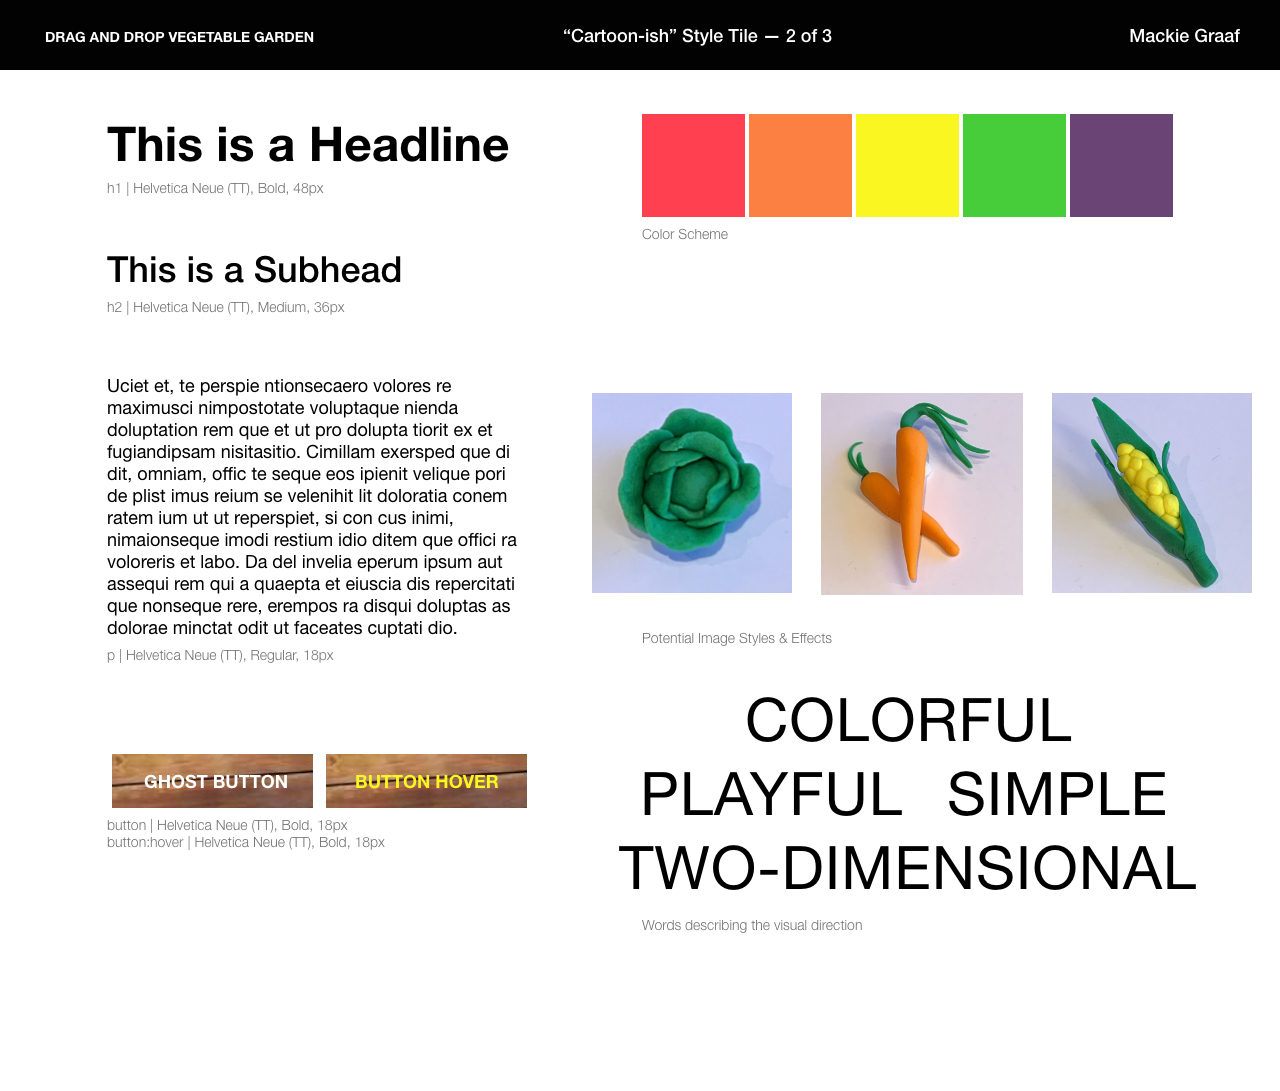
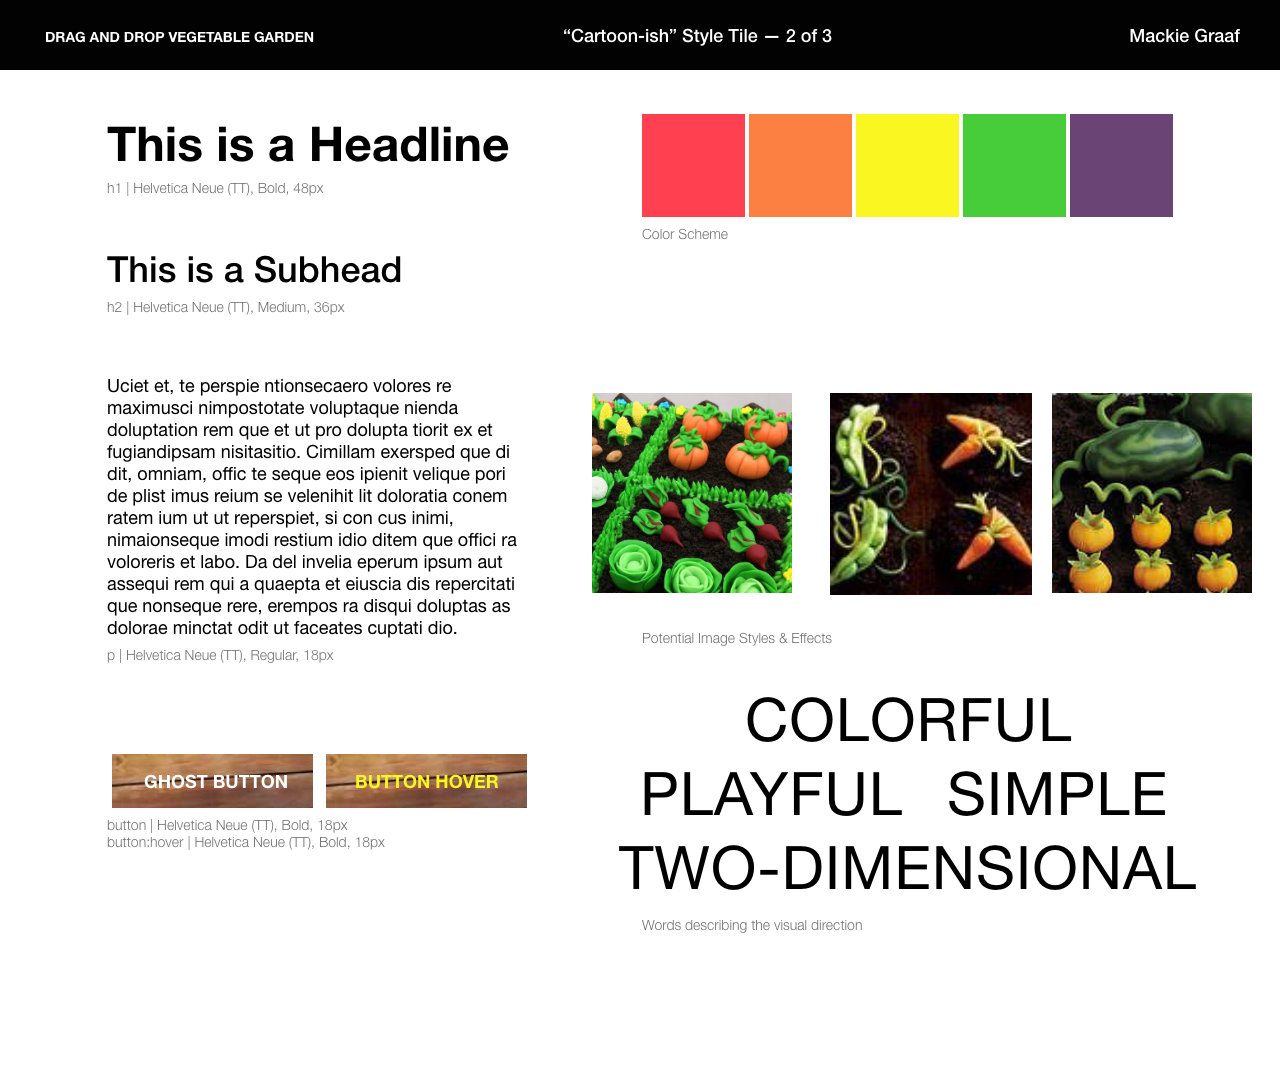
Updated style tiles

Changed region(s): [[0.4375, 0.3428, 1.0, 0.561]]

diff --git a/project-two/gallery-wireframe.html b/project-two/gallery-wireframe.html
@@ -2,7 +2,9 @@
 <html lang="en" dir="ltr">
   <head>
     <meta charset="utf-8">
-    <title>Build-a-Garden</title>
+    <title>Build-a-Garden - Gallery</title>
+
+    <link rel="stylesheet" href="gallery-wireframe.css">
 
   </head>
   <body>
@@ -15,7 +17,9 @@
           <a href="welcome-page-wireframe.html">Home</a>
         </div> <!-- end home button div -->
 
-        <h1>Garden Gallery</h1>
+        <div class="title-card"> <!-- title card div -->
+          <h1>Garden Gallery</h1>
+        </div> <!-- end title card div -->
 
         <div class="build-button"> <!-- build button div -->
           <a href="build-wireframe.html">Plant a Garden</a>
@@ -29,34 +33,82 @@
 
       <!-- Arrange gallery images and buttons via float with appropriate margin and padding -->
 
-      <div class="gallery-one"> <!-- first gallery entry div -->
-        <div class="gallery-one-image"> <!-- first gallery image div -->
-          <p>Picture of a garden goes here</p>
-        </div><!-- end first gallery image div -->
+      <div class="gallery-container"> <!-- gallery flex container div -->
 
-        <button type="button" name="button">View</button>
-        <button type="button" name="button">Edit</button>
-      </div> <!-- end first gallery entry div -->
+        <div class="gallery-one"> <!-- first gallery entry div -->
+          <div class="gallery-one-image"> <!-- first gallery image div -->
+            <p>Picture of a garden goes here</p>
+          </div><!-- end first gallery image div -->
 
-      <div class="gallery-two"> <!-- second gallery entry div -->
-        <div class="gallery-two-image"> <!-- second gallery image div -->
-          <p>Picture of a garden goes here</p>
-        </div><!-- end second gallery image div -->
+          <div class="button-bin-one"> <!-- first button div -->
+            <button type="button" name="button">View</button>
+            <button type="button" name="button">Edit</button>
+          </div> <!-- end first button div -->
 
-        <button type="button" name="button">View</button>
-        <button type="button" name="button">Edit</button>
-      </div> <!-- end second gallery entry div -->
+        </div> <!-- end first gallery entry div -->
 
-      <div class="gallery-three"> <!-- third gallery entry div -->
-        <div class="gallery-three-image"> <!-- third gallery image div -->
-          <p>Picture of a garden goes here</p>
-        </div><!-- end third gallery image div -->
+        <div class="gallery-two"> <!-- second gallery entry div -->
+          <div class="gallery-two-image"> <!-- second gallery image div -->
+            <p>Picture of a garden goes here</p>
+          </div><!-- end second gallery image div -->
 
-        <button type="button" name="button">View</button>
-        <button type="button" name="button">Edit</button>
-      </div> <!-- end second gallery entry div -->
+          <div class="button-bin-two"> <!-- second button div -->
+            <button type="button" name="button">View</button>
+            <button type="button" name="button">Edit</button>
+          </div> <!-- end second button div -->
 
-      <p>This will be the page where the garden is built. </p>
+        </div> <!-- end second gallery entry div -->
+
+        <div class="gallery-three"> <!-- third gallery entry div -->
+          <div class="gallery-three-image"> <!-- third gallery image div -->
+            <p>Picture of a garden goes here</p>
+          </div><!-- end third gallery image div -->
+
+          <div class="button-bin-three"> <!-- third button div -->
+            <button type="button" name="button">View</button>
+            <button type="button" name="button">Edit</button>
+          </div> <!-- end third button div -->
+
+        </div> <!-- end third gallery entry div -->
+
+        <div class="gallery-four"> <!-- fourth gallery entry div -->
+          <div class="gallery-four-image"> <!-- fourth gallery image div -->
+            <p>Picture of a garden goes here</p>
+          </div><!-- end fourth gallery image div -->
+
+          <div class="button-bin-four"> <!-- fourth button div -->
+            <button type="button" name="button">View</button>
+            <button type="button" name="button">Edit</button>
+          </div> <!-- end fourth button div -->
+
+        </div> <!-- end fourth gallery entry div -->
+
+        <div class="gallery-five"> <!-- fifth gallery entry div -->
+          <div class="gallery-five-image"> <!-- fifth gallery image div -->
+            <p>Picture of a garden goes here</p>
+          </div><!-- end fifth gallery image div -->
+
+          <div class="button-bin-five"> <!-- fifth button div -->
+            <button type="button" name="button">View</button>
+            <button type="button" name="button">Edit</button>
+          </div> <!-- end fifth button div -->
+
+        </div> <!-- end fifth gallery entry div -->
+
+        <div class="gallery-six"> <!-- sixth gallery entry div -->
+          <div class="gallery-six-image"> <!-- sixth gallery image div -->
+            <p>Picture of a garden goes here</p>
+          </div><!-- end sixth gallery image div -->
+
+          <div class="button-bin-six"> <!-- sixth button div -->
+            <button type="button" name="button">View</button>
+            <button type="button" name="button">Edit</button>
+          </div> <!-- end sixth button div -->
+
+        </div> <!-- end sixth gallery entry div -->
+
+      </div> <!-- end gallery flex container div -->
+
 
     </div> <!-- end content positioning div -->
 

diff --git a/project-two/gallery-wireframe.css b/project-two/gallery-wireframe.css
@@ -1,0 +1,234 @@
+/* Why is the top margin on this page larger than the top margin on the build and home pages? */
+
+/* Trying to position the title h2 text throws off all the gallery images and buttons in their flexbox container -- what's happening? */
+
+/* Body Div */
+body {
+  padding: 0;
+
+  background-color: red;
+
+  font-family: "Helvetica Neue"
+  }
+
+/* Div containing all content */
+ .everything {
+  width: 768px;
+  height: 1024px;
+
+  margin-left: auto;
+  margin-right: auto;
+
+  background-color: #37CFF6;
+  /* Sky Blue */
+}
+
+.home-button {
+  float: left;
+
+  width: 183px;
+  height: 81px;
+
+  margin-left: 12px;
+
+  background-color: #96F982;
+  /* Cabbage Green */
+
+}
+
+.nav-bar {
+  position: relative;
+
+  text-align: center;
+
+}
+
+.title-card {
+  float: left;
+
+  width: 378px;
+  height: 81px;
+
+  background-color: #A84E0F;
+  /* Wood-brown, temporary sign */
+}
+
+.build-button {
+  float: left;
+
+  width: 183px;
+  height: 81px;
+
+  background-color: #96F982;
+  /* Cabbage Green */
+}
+
+.home-button a {
+  position: absolute;
+  top: 30px;
+  left: 75px;
+}
+
+.build-button a {
+  position: absolute;
+  top: 30px;
+  right: 50px;
+}
+
+.gallery-container {
+  display: flex;
+  flex-direction: row;
+  align-content: center;
+  flex-wrap: wrap;
+}
+
+.gallery-one {
+  float: left;
+  margin: 40px;
+  padding: 5px;
+
+}
+
+.gallery-one-image {
+  width: 159px;
+  height: 192px;
+
+  background-color: #C42AF0;
+  /* Temporary Image purple */
+}
+
+.button-bin-one {
+  display: flex;
+  flex-direction: column;
+  align-content: center;
+}
+
+.button-bin-one button {
+  margin-top: 10px;
+}
+
+
+.gallery-two {
+  float: left;
+  margin: 40px;
+  padding: 5px;
+}
+
+
+.gallery-two-image {
+  width: 159px;
+  height: 192px;
+
+  background-color: #C42AF0;
+  /* Temporary Image purple */
+}
+
+.button-bin-two {
+  display: flex;
+  flex-direction: column;
+  align-content: center;
+}
+
+.button-bin-two button {
+  margin-top: 10px;
+}
+
+.gallery-three {
+  float: left;
+  margin: 40px;
+  padding: 5px;
+
+}
+
+.gallery-three-image {
+  width: 159px;
+  height: 192px;
+
+  background-color: #C42AF0;
+  /* Temporary Image purple */
+}
+
+.button-bin-three {
+  display: flex;
+  flex-direction: column;
+  align-content: center;
+}
+
+.button-bin-three button {
+  margin-top: 10px;
+}
+
+.gallery-four {
+  float: left;
+  margin: 40px;
+  padding: 5px;
+
+}
+
+.gallery-four-image {
+  width: 159px;
+  height: 192px;
+
+  background-color: #C42AF0;
+  /* Temporary Image purple */
+}
+
+.button-bin-four {
+  display: flex;
+  flex-direction: column;
+  align-content: center;
+}
+
+.button-bin-four button {
+  margin-top: 10px;
+}
+
+.gallery-five {
+  float: left;
+  margin: 40px;
+  padding: 5px;
+
+}
+
+.gallery-five-image {
+  width: 159px;
+  height: 192px;
+
+  background-color: #C42AF0;
+  /* Temporary Image purple */
+}
+
+.button-bin-five {
+  display: flex;
+  flex-direction: column;
+  align-content: center;
+}
+
+.button-bin-five button {
+  margin-top: 10px;
+}
+
+.gallery-six {
+  float: left;
+  margin: 40px;
+  padding: 5px;
+
+}
+
+.gallery-six-image {
+  width: 159px;
+  height: 192px;
+
+  background-color: #C42AF0;
+  /* Temporary Image purple */
+}
+
+.button-bin-six {
+  display: flex;
+  flex-direction: column;
+  align-content: center;
+}
+
+.button-bin-six button {
+  margin-top: 10px;
+}

diff --git a/index.html b/index.html
@@ -48,9 +48,13 @@
           <ul>
             <li> <a href="project-two/two-tile-one.jpg"> Style Tile 1: Photo-Realistic </a> </li>
 
-            <li> <a href="project-two/two-tile-two.jpg">Style Tile 2: Cartoon-ish</a> </li>
+            <li> <a href="project-two/two-tile-two.jpg">Style Tile 2: Cartoon-ish </a> </li>
 
-            <li> <a href="project-two/two-tile-three.jpg">Style Tile 3: Brambly Hedge</a> </li>
+            <li> <a href="project-two/two-tile-three.jpg"> Style Tile 3: Brambly Hedge </a> </li>
+
+            <li> <a href="project-two/updated-tile.jpg"> Updated Style Tile </a> </li>
+
+            <li> <a href="project-two/finalized-tile.jpg"> Finalized Style Tile </a> </li>
 
             <li> <a href="project-two/welcome-page-wireframe.html"> Build-a-Garden Wireframes </a> </li>
           </ul>

diff --git a/project-two/build-wireframe.css b/project-two/build-wireframe.css
@@ -25,8 +25,6 @@ body {
   width: 183px;
   height: 81px;
 
-  background-color: orange;
-
   margin-left: 12px;
 
   background-color: #96F982;
